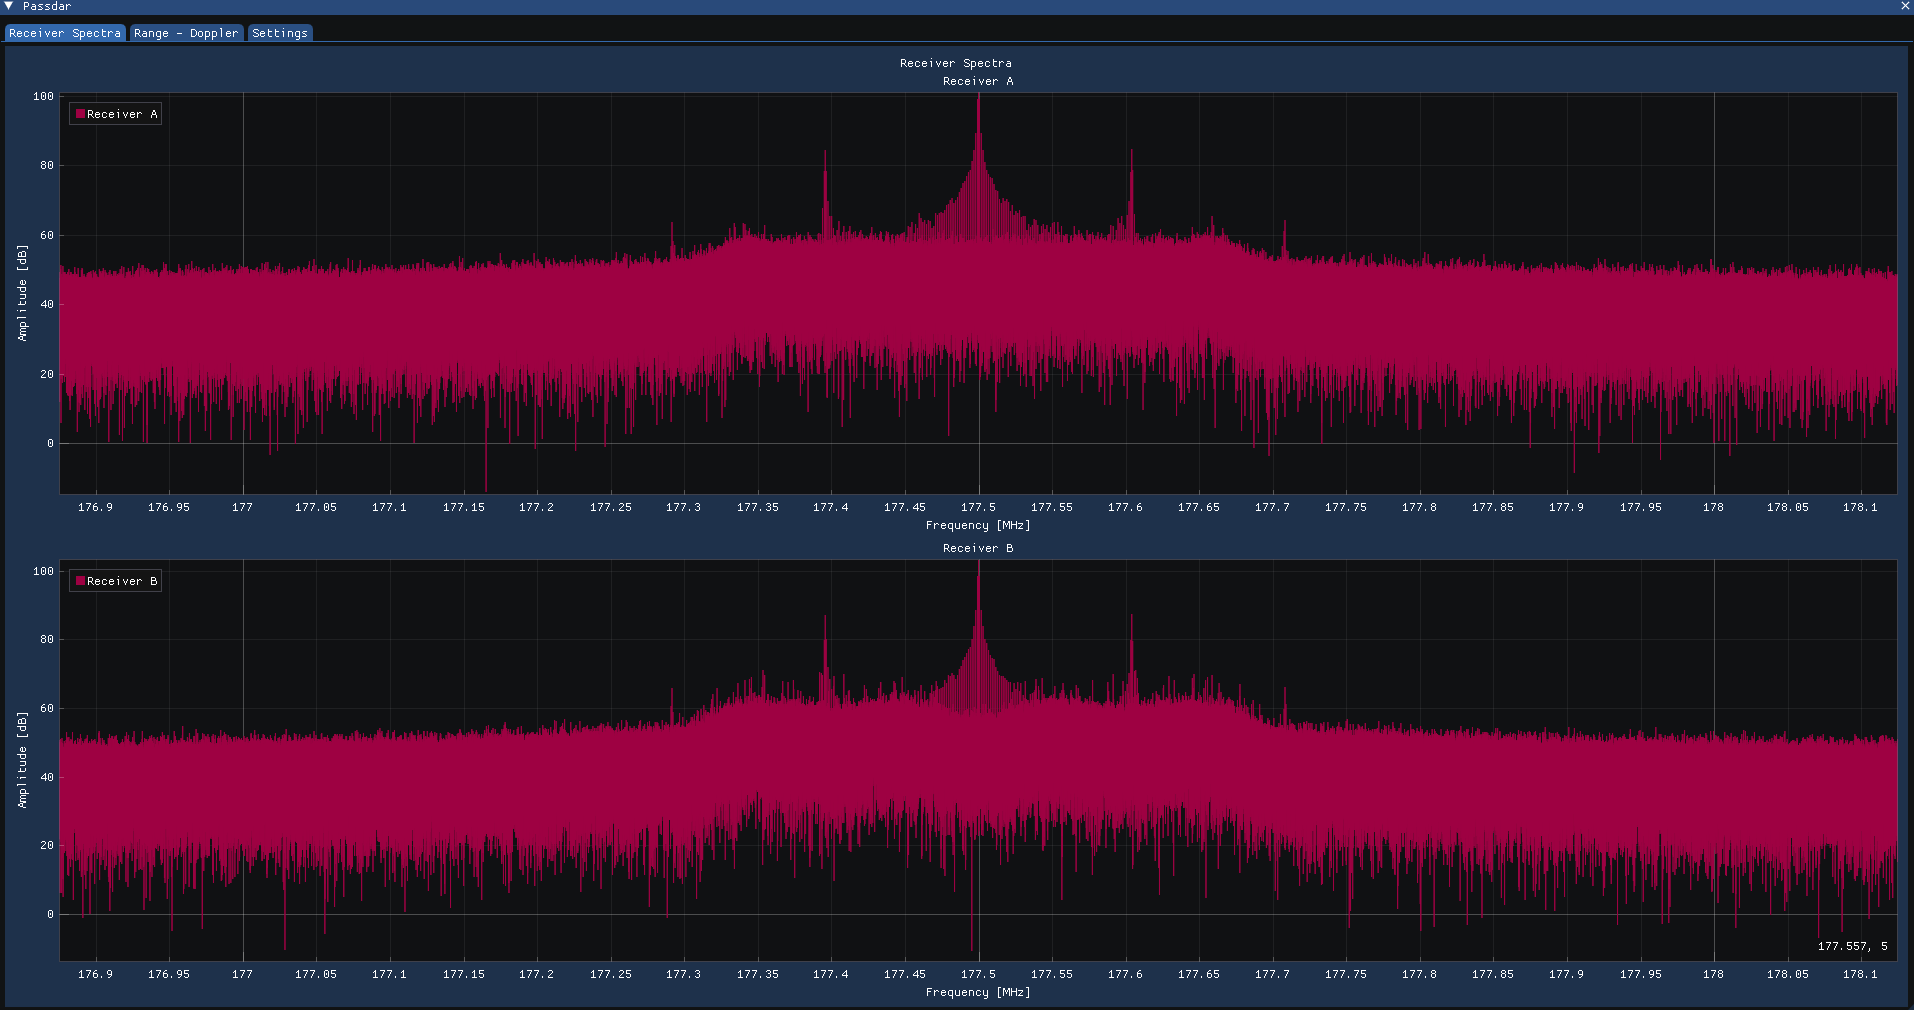
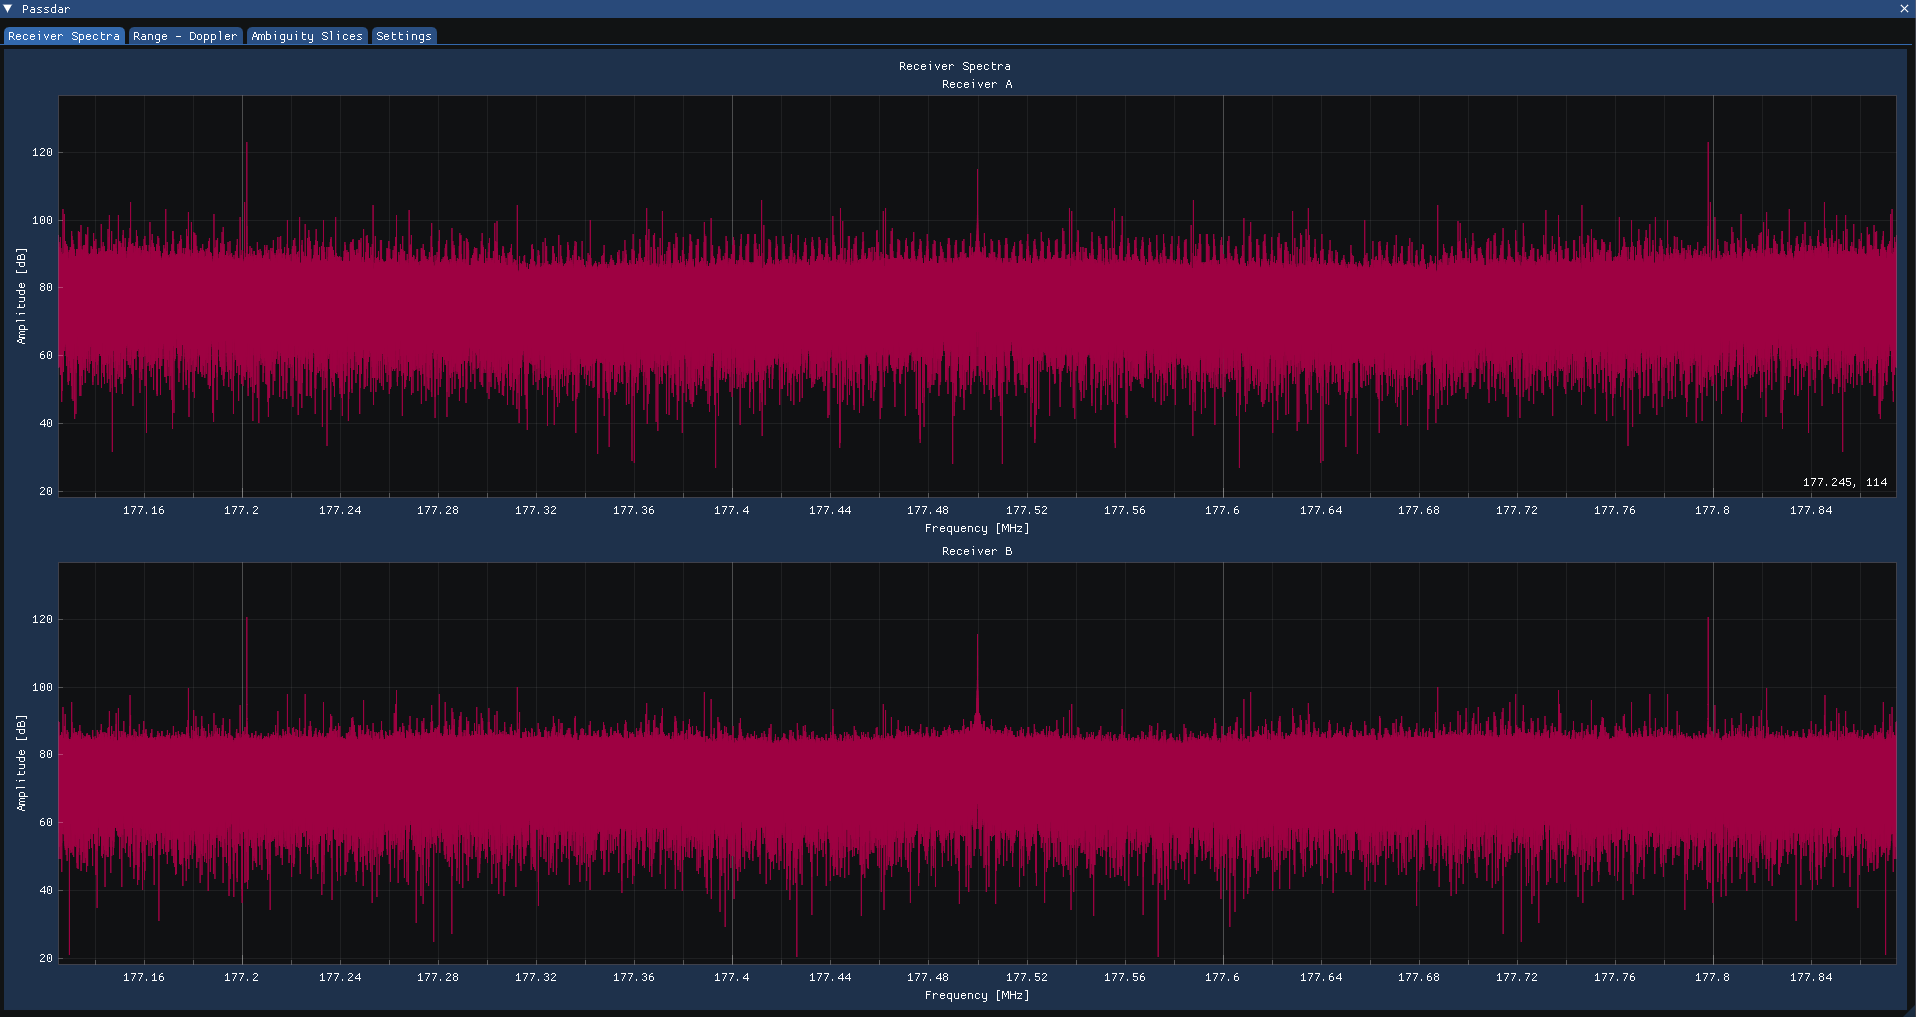
Pictures

diff --git a/README.md b/README.md
@@ -5,9 +5,12 @@ minimal function passive radar using an SDRplay RspDuo with two TV antennas.
 The current implementation displays both live spectra from each receiver and
 live ambiguity between the incoming signals.
 
-![Spectra](images/spectra.png "Spectra")
-
 ![Ambiguity](images/ambiguity.png "Ambiguity")
+
+![Slices](images/slices.png "Slices")
+![Slices](images/spectra.png "Spectra")
+ic
+![Spectra](images/spectra.png "Spectra")
 
 ## Build & Run
 
@@ -16,7 +19,7 @@ To clone and build the project while cloning external repositories recursively.
 ```bash
 git clone --recurse-submodules https://github.com/mv-2/passdar.git
 cd passdar
-cmake -B build
+cmesake -B build
 cmake --build build
 ```
 
